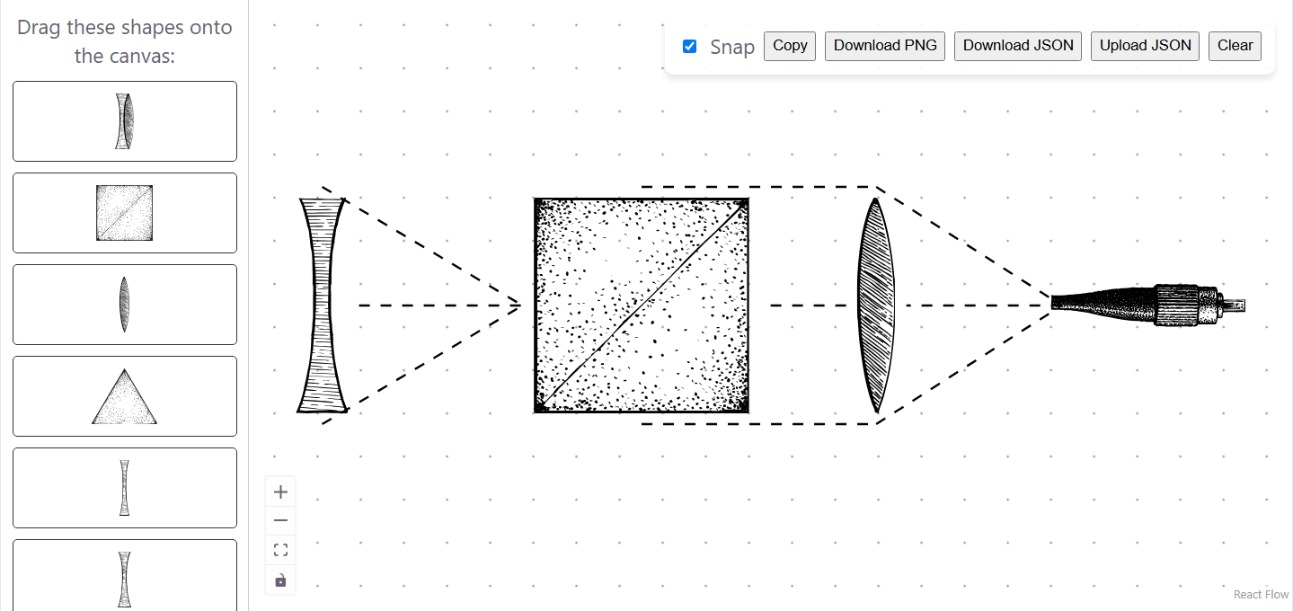
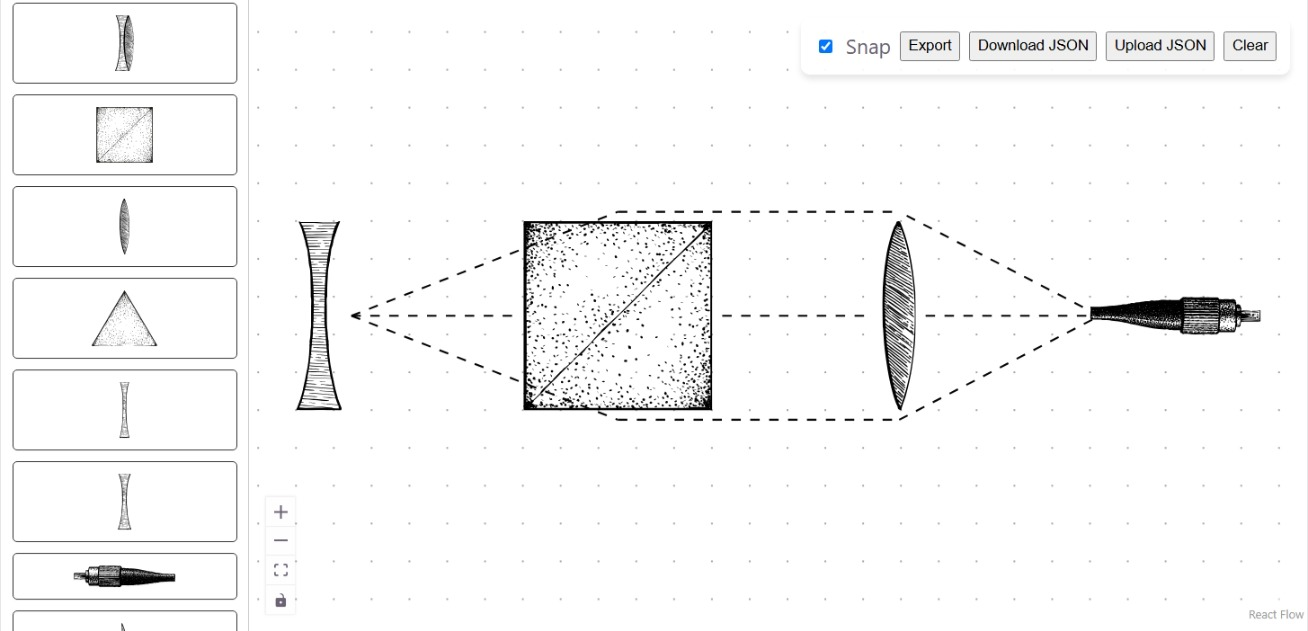
Update readme

diff --git a/README.md b/README.md
@@ -1,6 +1,6 @@
 # Vingram
 
-Ever feel the need to draw diagrams that look like drawings in old science textbooks? Vingram is a React-based diagramming tool that allows you to create diagrams with that hand-drawn aesthetic. It uses SVG shapes and provides a simple interface for creating and connecting nodes, as well as features like snapping to a grid and the ability to add custom SVG shapes.
+Ever feel the need to draw diagrams that look like drawings in old science textbooks? Vingram is a React-based diagramming tool that allows you to create diagrams with that hand-drawn aesthetic. It uses SVG shapes and provides a simple interface for creating and connecting nodes, as well as features like snapping to a grid and the ability to add custom shapes.
 
 ![Screenshot](.github/readme-images/screenshot.jpeg)
 
@@ -11,7 +11,7 @@ Ever feel the need to draw diagrams that look like drawings in old science textb
 - Snap nodes to a grid for precise alignment
 - Rotate nodes with snapping to specific angles
 - Auto-save your diagrams in the browser's local storage
-- Export your diagrams as PNG files
+- Export your diagrams as PNG or SVG files
 - Import custom SVG shapes for use in your diagrams
 
 ## Credits